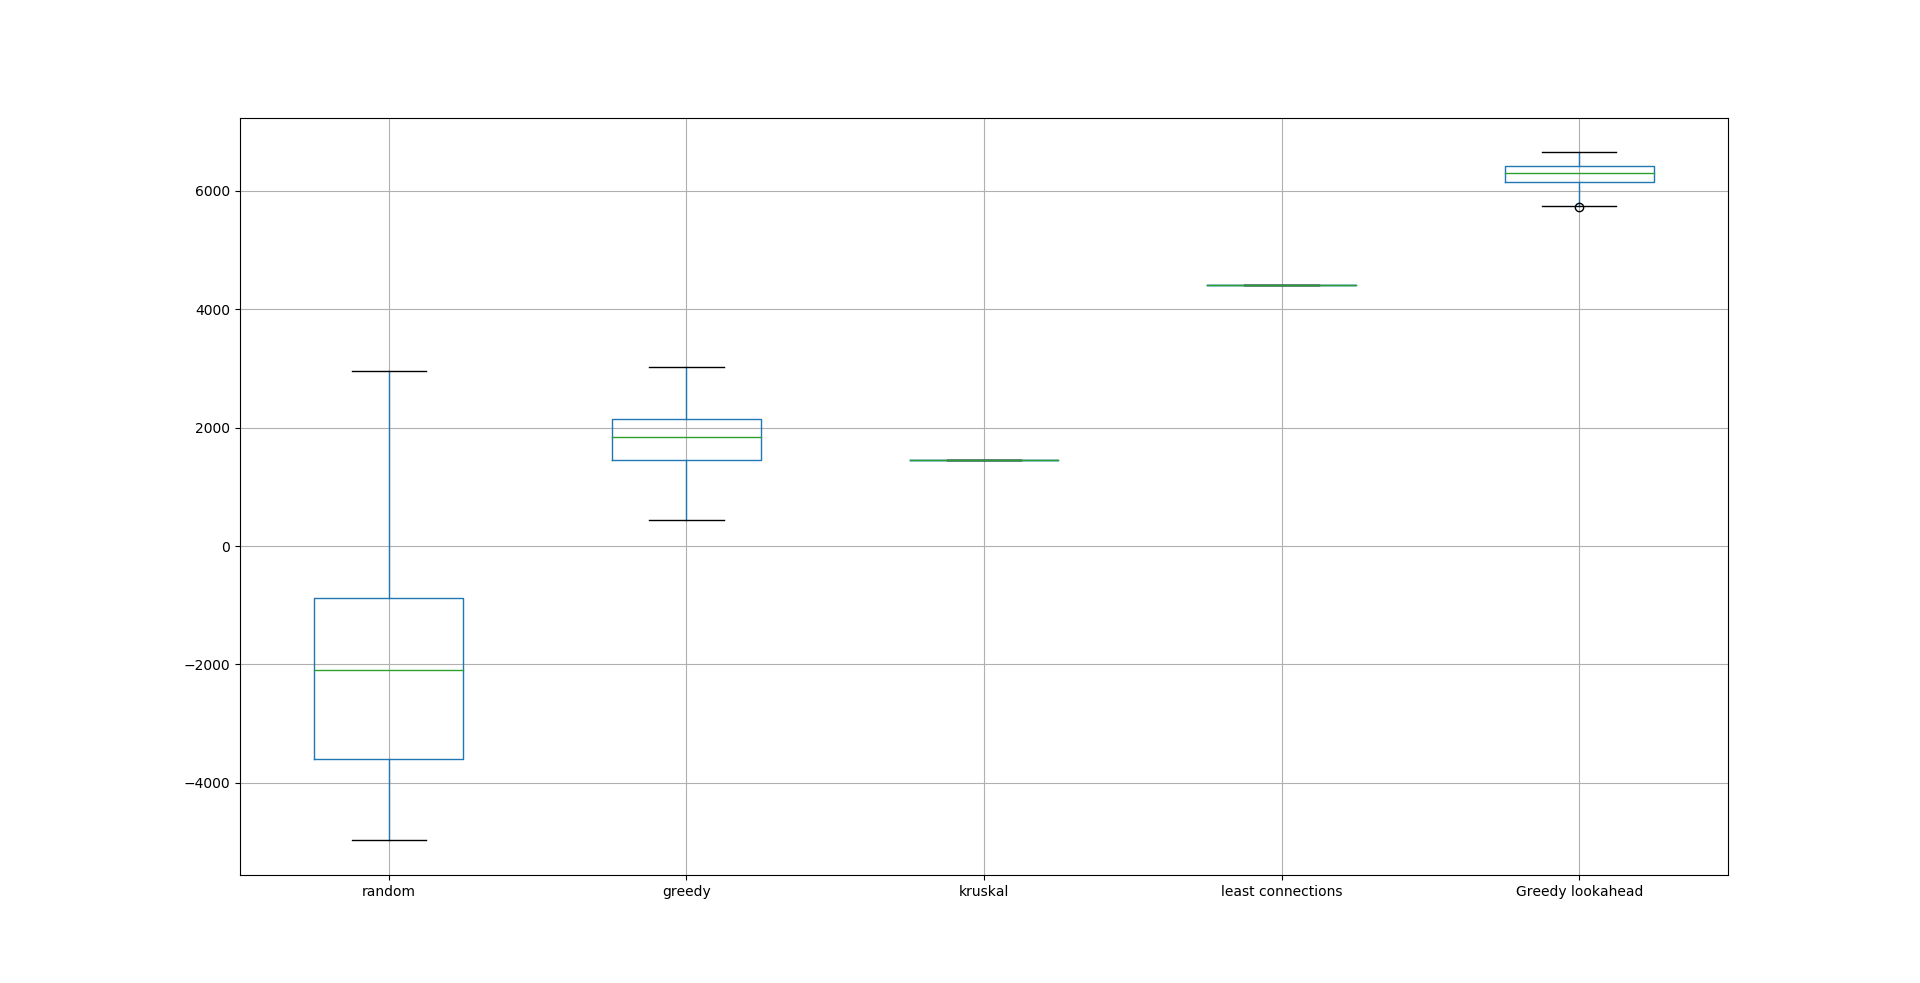
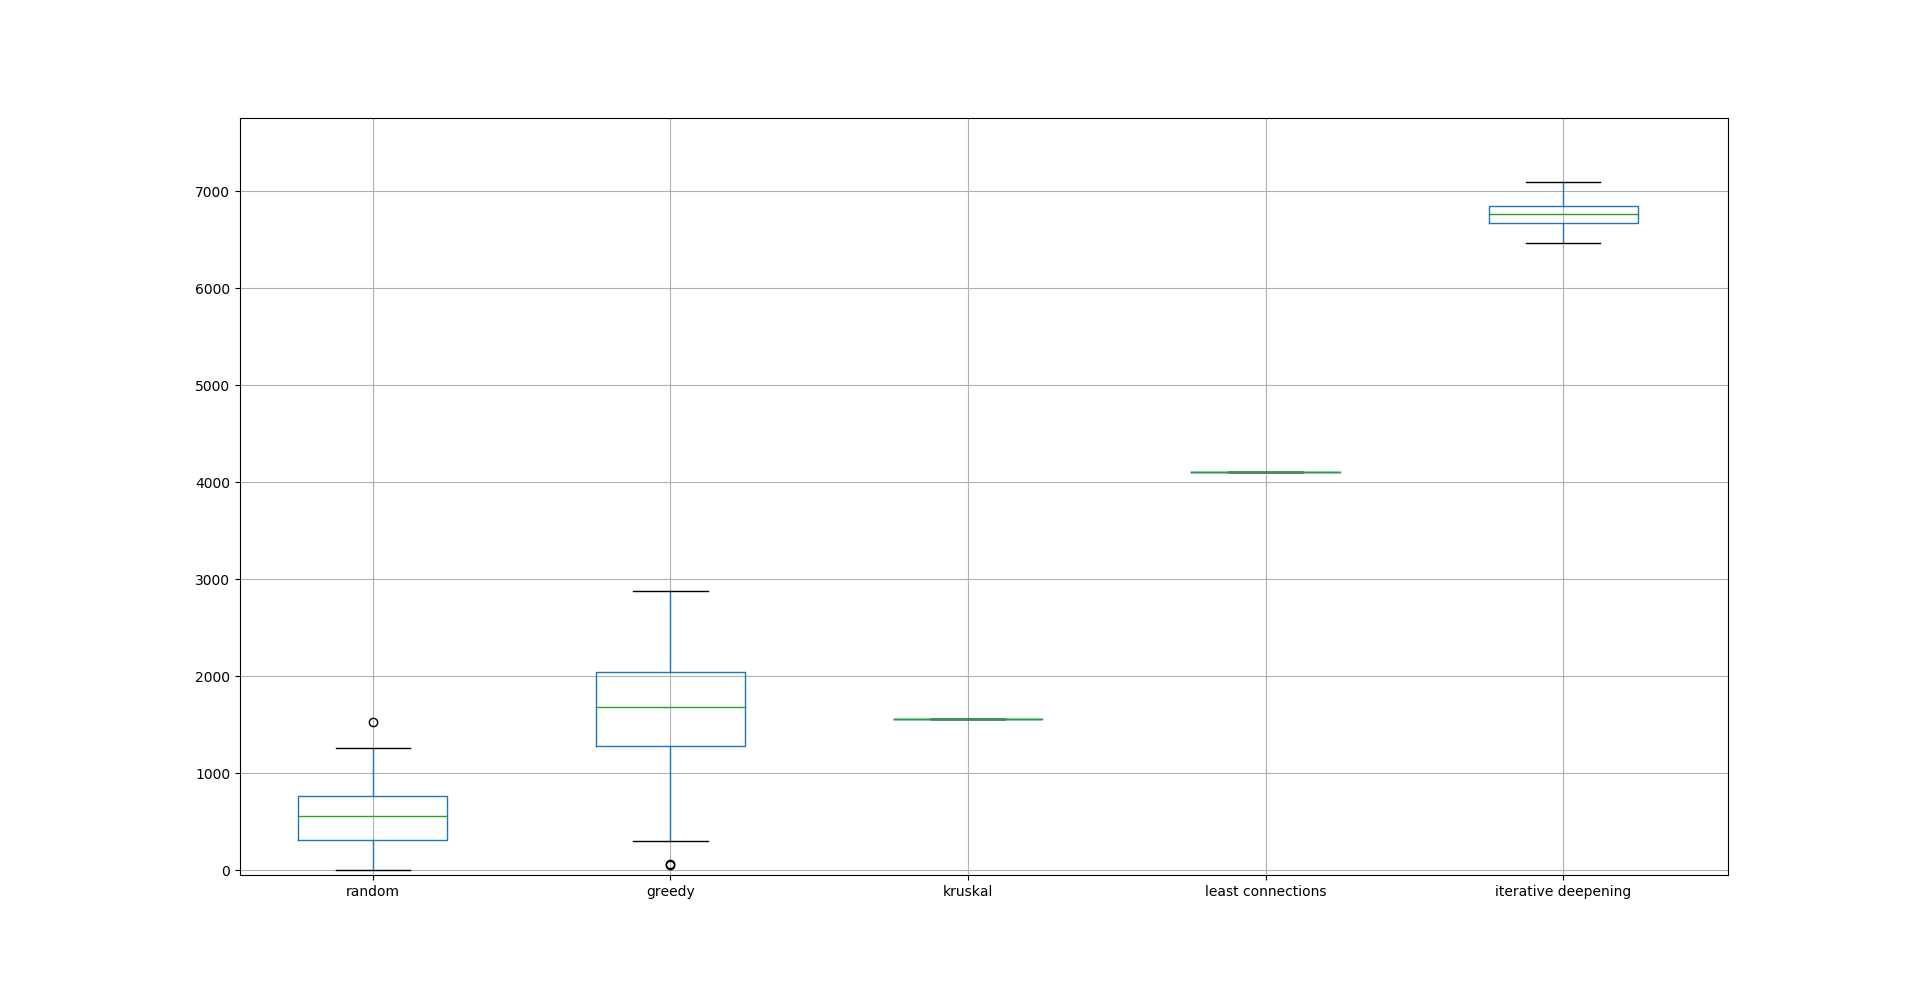
boxplot 250

diff --git a/main.py b/main.py
@@ -67,7 +67,7 @@ if __name__ == "__main__":
             sims = int(input('How many simulations do you want?'))
             alg = Randomize(file,trains,timeframe)
             for i in range(0,sims):
-                trajecten,p,score,train_used = alg.randomize()
+                trajecten,p,score,train_used = alg.run()
                 print('Using the Random algorithm the following score is found:',score)
                 print('With a p of: ',p,f'and {train_used} trains are used')
             again = input('Do you want to try a different algorithm?')
@@ -91,7 +91,7 @@ if __name__ == "__main__":
 
         if algorithm == 2:
             alg = Kruskal(file,trains,timeframe)
-            trajecten, p, score, trains_used= alg.kruskal()
+            trajecten, p, score, trains_used= alg.run()
             print('Using the Kruskal algorithm the following score is found:',score)
             print('With a p of: ',p)
             again = input('Do you want to try a different algorithm?')
@@ -102,7 +102,7 @@ if __name__ == "__main__":
 
         if algorithm == 3:
             alg = Count(file,trains,timeframe)
-            trajecten, p, score, train_used= alg.connectionCount()
+            trajecten, p, score, train_used= alg.run()
             print('Using the connectioncount algorithm the following score is found:',score)
             print('With a p of: ',p, f'and {train_used} are used.')
             again = input('Do you want to try a different algorithm?')
@@ -115,7 +115,7 @@ if __name__ == "__main__":
             sims = int(input('How many simulations do you want?'))
             alg = Lookahead(file,trains,timeframe,sims)
             for i in range(0,sims):
-                trajecten, p, score, train_used= alg.lookaheadClimber()
+                trajecten, p, score, train_used= alg.run()
                 print('Using the lookahead algorithm the following score is found:',score)
                 print('With a p of: ',p, f'and {train_used} trains are used.')
             again = input('Do you want to try a different algorithm?')

diff --git a/code/visualisation/boxplot.py b/code/visualisation/boxplot.py
@@ -2,9 +2,8 @@ from code.algorithms.greedy import Greedy
 from code.algorithms.kruskal import Kruskal
 from code.algorithms.iterativedeepening import Lookahead
 from code.algorithms.randomize import Randomize
-from code.algorithms.connectioncount import Count
+from code.algorithms.leastconnections import Count
 from code.algorithms.hillclimb import HillClimber
-from code.algorithms.connectioncount import Count
 from code.visualisation.visualise import Visualise
 from code.algorithms.readconnections import Read
 
@@ -36,7 +35,7 @@ class Vergelijking:
 
         greed = Greedy(self.file, self.trains, self.timeframe)
         for i in range(self.sims):
-            score = Greedy.run()[3]
+            score = greed.run()[3]
             scoreslist[i] = score
         df['greedy']  = scoreslist.values()
         print('Greedy klaar')
@@ -57,7 +56,8 @@ class Vergelijking:
 
         look = Lookahead(self.file, self.trains, self.timeframe, 50)
         for i in range(self.sims):
-            score = look.lookaheadClimber()[2]
+            score = look.run()[2]
+            print(i, score)
             scoreslist[i] = score
         df['iterative deepening'] = scoreslist.values()
         print('iterative deepening klaar')

diff --git a/code/algorithms/leastconnections.py b/code/algorithms/leastconnections.py
@@ -24,7 +24,7 @@ class Count:
         read = Read(file)
         self.stations, self.connections, self.clist, self.clist2 = read.readConnections()
 
-    def connectionCount(self):
+    def run(self):
         """Returns the tracks that are covered, p, score and amount of trais used"""
 
         # a list which will be filled with the connections that are used

diff --git a/code/algorithms/kruskal.py b/code/algorithms/kruskal.py
@@ -46,7 +46,7 @@ class Kruskal:
         except:
             return None
 
-    def kruskal(self):
+    def run(self):
         """Returns the tracks, p, score and trains that are used, found with the help of Kruskal"""
 
         # dictionary that will be filled with the tracks that are made

diff --git a/code/algorithms/randomize.py b/code/algorithms/randomize.py
@@ -28,7 +28,7 @@ class Randomize:
         self.stations, self.connections, self.clist, self.clist2 = read.readConnections()
     
     
-    def randomize(self):
+    def run(self):
         """Returns a random solution for the problem"""
 
         # how many connections are there in total

diff --git a/code/algorithms/iterativedeepening.py b/code/algorithms/iterativedeepening.py
@@ -29,7 +29,7 @@ class Lookahead:
         self.failed_attemps = failed_attemps
 
 
-    def lookaheadClimber(self):
+    def run(self):
         """Returns an efficient solution"""
         
         # keep track of how many trains will be used
